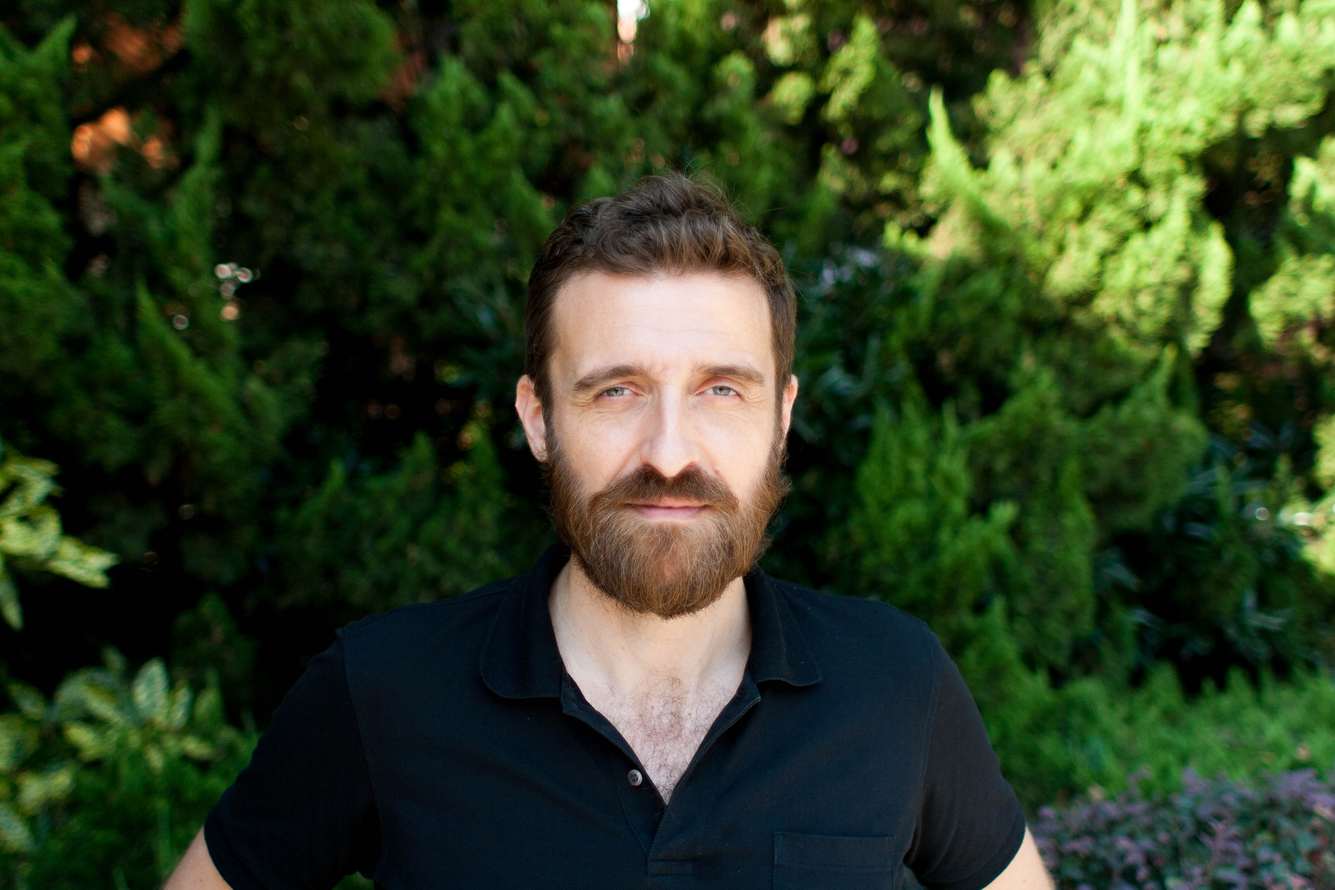
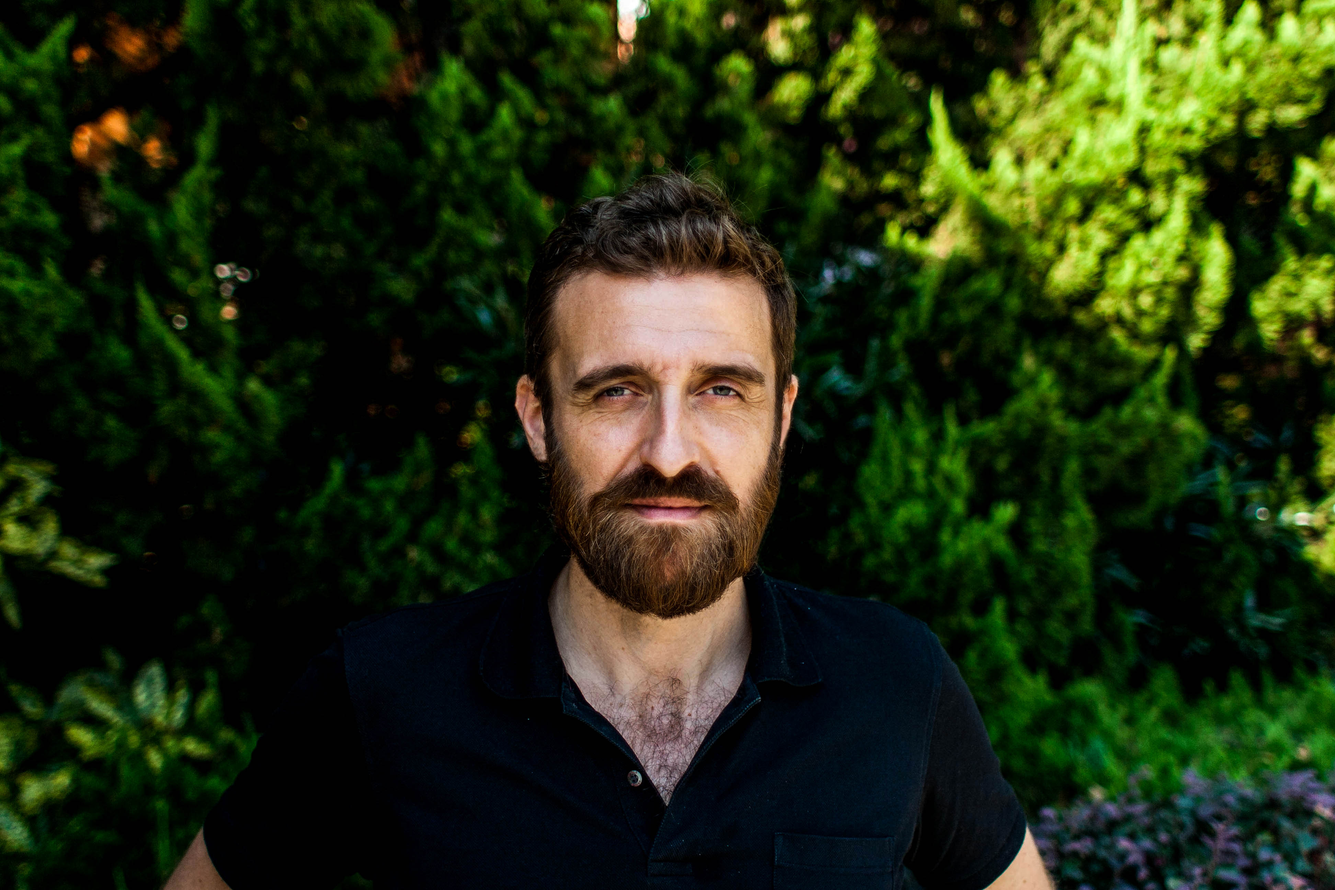
update picture

diff --git a/index.html b/index.html
@@ -108,7 +108,7 @@
   <script src="js/jquery.backstretch.min.js"></script>
 
   <script type="text/javascript">
-    $.backstretch("img/maxmarboeuf_bgtest-2.jpg");
+    $.backstretch("img/maxmarboeuf_bg.jpg");
     var gaJsHost = (("https:" == document.location.protocol) ? "https://ssl." : "http://www.");
     document.write(unescape("%3Cscript src='" + gaJsHost + "google-analytics.com/ga.js' type='text/javascript'%3E%3C/script%3E"));
     </script>
